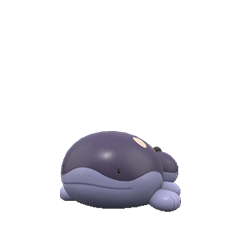
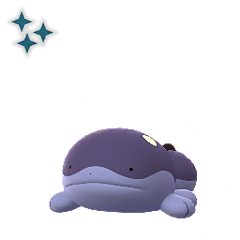
added handling for shiny shadow and shadow images

Changed region(s): [[0.2042, 0.525, 0.8458, 0.9333], [0.0292, 0.0292, 0.2333, 0.2333]]

diff --git a/backend/data/editor/frames/pokemon_shadow_image_frames.py b/backend/data/editor/frames/pokemon_shadow_image_frames.py
@@ -1,0 +1,184 @@
+# pokemon_shadow_image_frames.py
+import tkinter as tk
+from tkinter import filedialog, messagebox, simpledialog
+from PIL import Image, ImageTk
+import os
+import requests
+from io import BytesIO
+
+class BaseShadowImageFrame(tk.Frame):
+    def initialize_image_frame(self, parent, image_url, pokemon_id, frame_label_text, image_subfolder):
+        super().__init__(parent)
+        self.parent = parent
+        self.pokemon_id = pokemon_id
+        self.frame = tk.Frame(parent)
+        self.frame.pack(side=tk.LEFT, fill=tk.BOTH, expand=True, padx=10, pady=10)
+
+        # Create a container frame within the main frame
+        self.container_frame = tk.Frame(self.frame, bg="white", bd=2, relief=tk.RIDGE)
+        self.container_frame.pack(fill=tk.BOTH, expand=True, padx=5, pady=5)
+
+        # Create a label for the container frame
+        self.frame_label = tk.Label(self.container_frame, text=f"{frame_label_text} Image Pokemon ID: {pokemon_id}", bg="white")
+        self.frame_label.pack(side=tk.TOP, fill=tk.X)
+
+        # Initialize image_label attribute within the container frame
+        self.image_label = tk.Label(self.container_frame)
+        self.image_label.pack(fill=tk.BOTH, expand=True)
+
+        # Set the relative path to images
+        script_directory = os.path.dirname(os.path.realpath(__file__))
+        go_directory = os.path.normpath(os.path.join(script_directory, '../../../../'))
+        self.relative_path_to_images = os.path.join(go_directory, 'frontend', 'public', 'images', image_subfolder)
+
+        # Check if image_url is None or empty
+        if image_url:
+            # Set the full image path
+            image_url = image_url.lstrip("\\/")  # Ensure the URL is treated as relative
+            self.full_image_path = os.path.normpath(os.path.join(self.relative_path_to_images, f"{image_subfolder}_pokemon_{pokemon_id}.png"))
+
+            # Attempt to load and display the image
+            self.load_and_display_image()
+        else:
+            # If image_url is None, skip loading and display a placeholder or nothing
+            self.full_image_path = None 
+
+        # Buttons for updating image
+        self.btn_select_image = tk.Button(self.container_frame, text="Select Image", command=self.select_image_from_device)
+        self.btn_select_image.pack(side=tk.BOTTOM)
+        
+        self.btn_download_image = tk.Button(self.container_frame, text="Download Image", command=self.download_image_from_url)
+        self.btn_download_image.pack(side=tk.BOTTOM)
+
+    def load_and_display_image(self):
+        print(f"Loading and displaying image. Path: {self.full_image_path}")
+        if not os.path.exists(self.full_image_path):
+            print(f"Image file does not exist: {self.full_image_path}")
+            self.photo = ImageTk.PhotoImage(Image.new('RGB', (240, 240), color='grey'))
+        else:
+            try:
+                self.image = Image.open(self.full_image_path)
+                self.photo = ImageTk.PhotoImage(self.image)
+                print(f"Image loaded for display: {self.photo}")
+            except Exception as e:
+                print(f"Failed to load image: {e}")
+                self.photo = ImageTk.PhotoImage(Image.new('RGB', (240, 240), color='grey'))
+
+        try:
+            self.image_label.configure(image=self.photo)
+            self.image_label.image = self.photo  # This line might be problematic if self.photo is None
+        except Exception as e:
+            print(f"Failed to update image label: {e}")
+
+    def select_image_from_device(self):
+        file_path = filedialog.askopenfilename()
+        if file_path:
+            try:
+                image = Image.open(file_path).resize((240, 240))
+                print(f"Image selected: {image}")  # Confirm that the image is loaded
+                self.save_and_update_image(image)
+            except Exception as e:
+                print(f"Exception occurred during image selection from device: {e}")
+                messagebox.showerror("Error", f"Failed to open or process the image: {e}")
+
+    def download_image_from_url(self):
+        url = simpledialog.askstring("Download Image", "Enter the Image URL:")
+        if url:
+            try:
+                response = requests.get(url)
+                response.raise_for_status()
+                image = Image.open(BytesIO(response.content)).resize((240, 240))
+                self.save_and_update_image(image)
+            except requests.exceptions.RequestException as e:
+                messagebox.showerror("Error", f"Failed to download the image: {e}")
+            except Exception as e:
+                print(f"Exception occurred during image download: {e}")
+                messagebox.showerror("Error", f"Failed to download the image: {e}")
+
+    def combine_images(self, pokemon_image):
+        """
+        Combine the downloaded or selected Pokémon image with the shadow effect and shadow icon.
+        """
+        try:
+            # Define paths to shadow effect and shadow icon images
+            shadow_effect_path = os.path.normpath(os.path.join(self.relative_path_to_images, '..', 'shadow_effect.png'))
+            shadow_icon_path = os.path.normpath(os.path.join(self.relative_path_to_images, '..', 'shadow_icon_middle_ground.png'))
+
+            # Open all the images
+            base_image = Image.new("RGBA", (240,240), (0,0,0,0))
+            
+            shadow_effect = Image.open(shadow_effect_path).convert("RGBA")
+            print(f"Shadow effect loaded: {shadow_effect}")
+
+            shadow_icon = Image.open(shadow_icon_path).convert("RGBA")
+            print(f"Shadow icon loaded: {shadow_icon}")
+
+            # Resize the shadow_effect
+            target_width = 240
+            shadow_effect = shadow_effect.resize((target_width, int((target_width/shadow_effect.width)*shadow_effect.height)))
+
+            # Place shadow effect on the base image with a downward offset
+            se_width, se_height = shadow_effect.size
+            vertical_offset = 20
+            se_position = ((base_image.width - se_width) // 2, (base_image.height - se_height) // 2 + vertical_offset)
+            base_image.paste(shadow_effect, se_position, shadow_effect)
+
+            # Place Pokemon image on top of the shadow effect
+            base_image.paste(pokemon_image, (0, 0), pokemon_image)
+
+            # Place shadow icon at the bottom left on top of the Pokemon image
+            si_width, si_height = shadow_icon.size
+            si_position = (0, base_image.height - si_height)
+            base_image.paste(shadow_icon, si_position, shadow_icon)
+
+            return base_image
+        except Exception as e:
+            print(f"Failed to combine images: {e}")
+            return None
+
+class PokemonShadowImageFrame(BaseShadowImageFrame):
+    def __init__(self, parent, image_url_shadow, pokemon_id):
+        super().__init__(parent)
+        self.initialize_image_frame(parent, image_url_shadow, pokemon_id, "Shadow", "shadow")
+
+    def save_and_update_image(self, image):
+        print(f"Saving and updating shadow image: {image}")
+        combined_image = self.combine_images(image)
+        print(f"Combined shadow image: {combined_image}")
+
+        save_path = os.path.join(self.relative_path_to_images, f'shadow_pokemon_{self.pokemon_id}.png')
+        save_path = os.path.normpath(save_path)
+        os.makedirs(os.path.dirname(save_path), exist_ok=True)
+        combined_image.save(save_path, "PNG")
+        print(f"Shadow image saved at: {save_path}")
+
+        # Load and display the combined image
+        self.full_image_path = save_path  # Update full_image_path to the new save_path
+        self.load_and_display_image()
+
+class PokemonShinyShadowImageFrame(BaseShadowImageFrame):
+    def __init__(self, parent, image_url_shiny_shadow, pokemon_id):
+        super().__init__(parent)
+        self.initialize_image_frame(parent, image_url_shiny_shadow, pokemon_id, "Shiny Shadow", "shiny_shadow")
+    
+    def save_and_update_image(self, image):
+        print(f"Class executing save_and_update_image: {self.__class__.__name__}")
+        combined_image = self.combine_images(image)
+
+        # Construct the save path with explicit 'shiny_' prefix
+        save_path = os.path.join(self.relative_path_to_images, f'shiny_shadow_pokemon_{self.pokemon_id}.png')
+        print(f"Expected save path for shiny shadow image: {save_path}")
+
+        save_path = os.path.normpath(save_path)
+        os.makedirs(os.path.dirname(save_path), exist_ok=True)
+        combined_image.save(save_path, "PNG")
+        print(f"Shiny shadow image saved at: {save_path}")
+
+        self.full_image_path = save_path
+        self.load_and_display_image()
+
+# This ensures both classes use the same shared methods
+PokemonShinyShadowImageFrame.initialize_image_frame = PokemonShadowImageFrame.initialize_image_frame
+PokemonShinyShadowImageFrame.load_and_display_image = PokemonShadowImageFrame.load_and_display_image
+PokemonShinyShadowImageFrame.select_image_from_device = PokemonShadowImageFrame.select_image_from_device
+PokemonShinyShadowImageFrame.download_image_from_url = PokemonShadowImageFrame.download_image_from_url

diff --git a/backend/data/editor/pokemon_details_window.py b/backend/data/editor/pokemon_details_window.py
@@ -9,6 +9,7 @@ from frames.pokemon_evolutions_frame import PokemonEvolutionsFrame
 from frames.pokemon_shadow_frame import PokemonShadowFrame
 from frames.pokemon_image_frame import PokemonImageFrame
 from frames.pokemon_shiny_image_frame import PokemonShinyImageFrame
+from frames.pokemon_shadow_image_frames import PokemonShadowImageFrame, PokemonShinyShadowImageFrame
 
 class PokemonDetailsWindow:
     
@@ -87,6 +88,17 @@ class PokemonDetailsWindow:
         # Shiny Image Frame
         shiny_image_url = self.pokemon_data[4]  # Assuming the shiny image URL is at this index (update as necessary)
         self.shiny_image_frame = PokemonShinyImageFrame(main_container, shiny_image_url, pokemon_id)
+
+        shadow_image_url = self.shadow_pokemon_data[4] if len(self.shadow_pokemon_data) > 4 else None
+        shiny_shadow_image_url = self.shadow_pokemon_data[5] if len(self.shadow_pokemon_data) > 5 else None
+
+        # Shadow Image Frame
+        self.shadow_image_frame = PokemonShadowImageFrame(main_container, shadow_image_url, pokemon_id)
+        self.shadow_image_frame.pack(side=tk.LEFT, fill=tk.BOTH, expand=True)
+
+        # Shiny Shadow Image Frame
+        self.shiny_shadow_image_frame = PokemonShinyShadowImageFrame(main_container, shiny_shadow_image_url, pokemon_id)
+        self.shiny_shadow_image_frame.pack(side=tk.LEFT, fill=tk.BOTH, expand=True)
 
         # Save Button
         save_button = tk.Button(self.window, text="Save Changes", command=self.save_changes)
